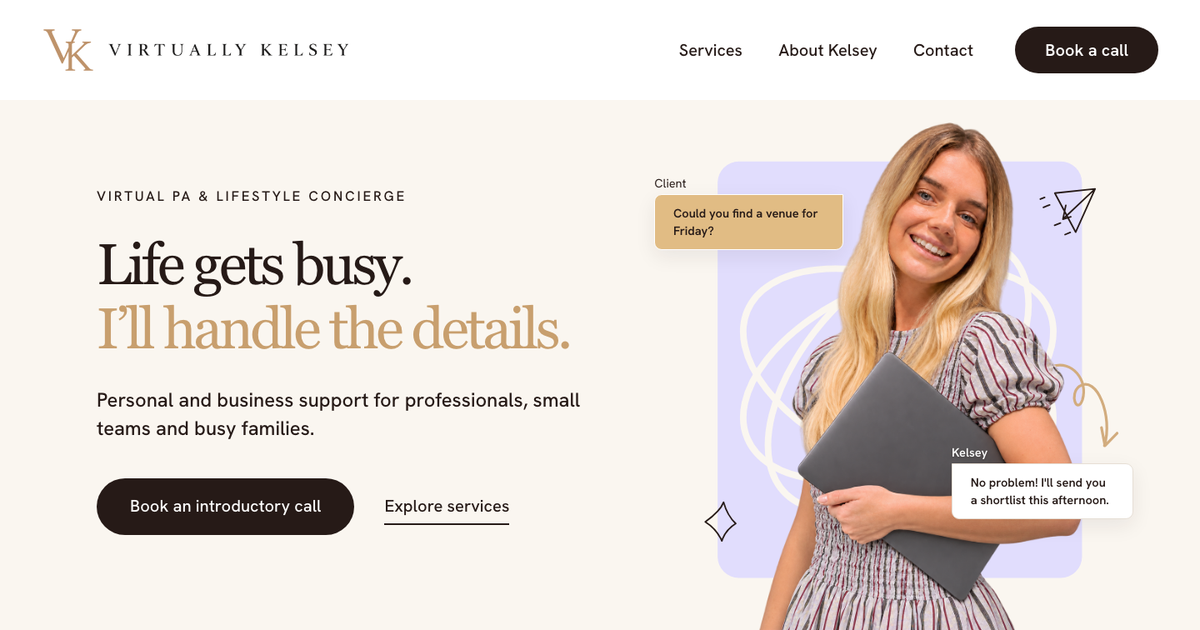
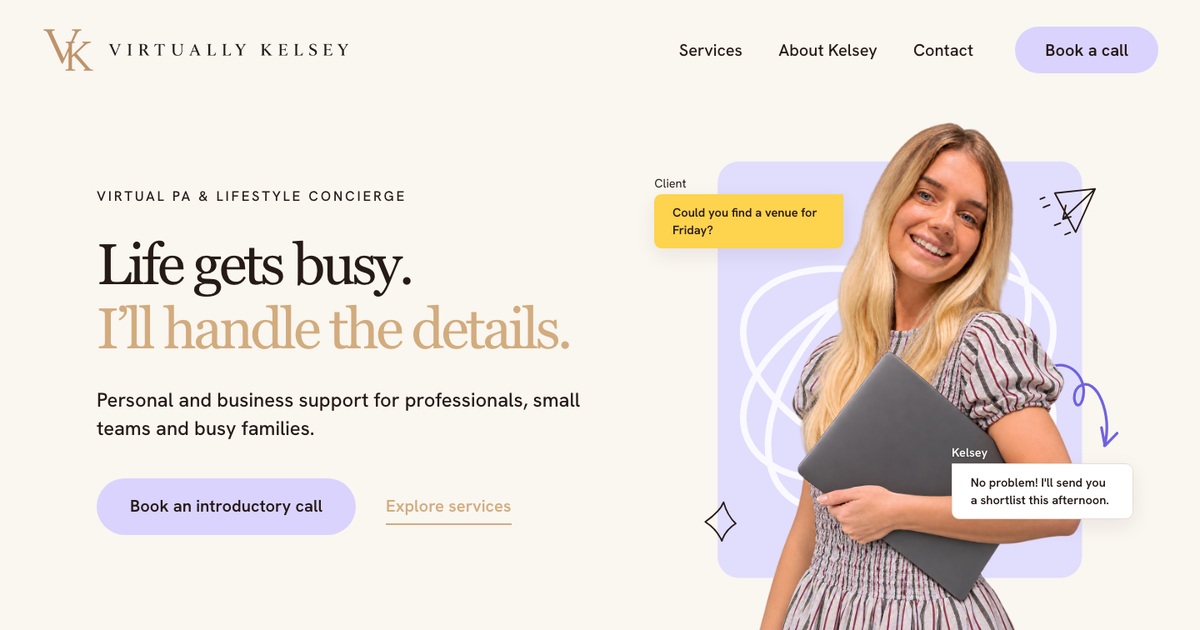
Match Hero & seamless ivory navbar to reference design

diff --git a/styles.css b/styles.css
@@ -15,8 +15,8 @@
   --gold-hover: #B88E5C;
   --lilac: #E1DDFD;
   --lilac-card: #DDDBFD;
-  --lilac-btn: #DBD8FD;
-  --lilac-hover: #CBC6FB;
+  --lilac-btn: #DAD3FD;
+  --lilac-hover: #C9C1FB;
   --lilac-accent: #CAC5F8;
   --lilac-border: #D2CDFA;
   --espresso: #261A17;
@@ -188,8 +188,7 @@ p a:not([class]):hover,
   height: 120px;
   position: relative;
   z-index: 10;
-  background-color: var(--white);
-  border-bottom: 1px solid var(--border);
+  background-color: transparent;
 }
 
 .navbar {
@@ -200,7 +199,7 @@ p a:not([class]):hover,
   width: 100%;
   height: 120px;
   padding: 0px 50px;
-  background-color: var(--white);
+  background-color: transparent;
   position: relative;
 }
 
@@ -320,7 +319,7 @@ p a:not([class]):hover,
   height: 46px;
   padding: 0px 28px;
   border-radius: 100px;
-  background-color: var(--espresso);
+  background-color: var(--lilac-btn);
   text-decoration: none;
   cursor: pointer;
   white-space: pre;
@@ -328,13 +327,13 @@ p a:not([class]):hover,
   font-size: 16px;
   font-weight: 600;
   line-height: 28px;
-  color: var(--white);
+  color: var(--espresso);
   flex-shrink: 0;
   transition: background-color 0.22s cubic-bezier(0.22, 1, 0.36, 1);
 }
 
 .navbar-cta:hover {
-  background-color: var(--espresso-hover);
+  background-color: var(--lilac-hover);
 }
 
 /* ==========================================================================
@@ -395,7 +394,7 @@ p a:not([class]):hover,
 }
 
 .hero-headline-accent {
-  color: var(--gold-link);
+  color: var(--gold);
 }
 
 .hero-eyebrow {
@@ -442,20 +441,20 @@ p a:not([class]):hover,
   height: 56px;
   padding: 0px 32px;
   border-radius: 100px;
-  background-color: var(--espresso);
+  background-color: var(--lilac-btn);
   text-decoration: none;
   cursor: pointer;
   white-space: pre;
   font-family: "Hanken Grotesk", sans-serif;
   font-size: 18px;
-  font-weight: 500;
+  font-weight: 600;
   line-height: 28.8px;
-  color: var(--white);
+  color: var(--espresso);
   transition: background-color 0.25s cubic-bezier(0.22, 1, 0.36, 1);
 }
 
 .btn-primary-big:hover {
-  background-color: var(--espresso-hover);
+  background-color: var(--lilac-hover);
 }
 
 /* Secondary CTA (.framer-1cjxwlc) */
@@ -467,42 +466,43 @@ p a:not([class]):hover,
   gap: 10px;
   height: 38px;
   padding: 0px;
-  border-bottom: 2px solid var(--espresso);
+  border-bottom: 2px solid var(--gold);
   text-decoration: none;
   cursor: pointer;
   font-family: "Hanken Grotesk", sans-serif;
   font-size: 18px;
   font-weight: 600;
   line-height: 28px;
-  color: var(--espresso);
+  color: var(--gold);
   transition: color 0.25s cubic-bezier(0.22, 1, 0.36, 1),
               border-bottom-color 0.25s cubic-bezier(0.22, 1, 0.36, 1);
 }
 
 .btn-secondary:hover {
-  color: var(--espresso-hover);
-  border-bottom-color: var(--espresso-hover);
+  color: var(--espresso);
+  border-bottom-color: var(--espresso);
 }
 
 .hero-buttons .btn-primary-big {
-  background-color: var(--espresso);
+  background-color: var(--lilac-btn);
   padding-inline: 32px;
-  font-weight: 500;
+  font-weight: 600;
+  color: var(--espresso);
 }
 
 .hero-buttons .btn-primary-big:hover {
-  background-color: var(--espresso-hover);
+  background-color: var(--lilac-hover);
 }
 
 .hero-buttons .btn-secondary {
-  color: var(--espresso);
-  border-bottom-color: var(--espresso);
-  font-weight: 500;
+  color: var(--gold);
+  border-bottom-color: var(--gold);
+  font-weight: 600;
 }
 
 .hero-buttons .btn-secondary:hover {
-  color: var(--espresso-hover);
-  border-bottom-color: var(--espresso-hover);
+  color: var(--espresso);
+  border-bottom-color: var(--espresso);
 }
 
 .hero-right {
@@ -603,9 +603,9 @@ p a:not([class]):hover,
 }
 
 .hero-message--client .hero-message-text {
-  background: var(--champagne-highlight);
+  background: #FED34D;
   color: var(--espresso);
-  border: 1px solid var(--white);
+  border: none;
   box-shadow: 0 8px 24px rgba(38, 26, 23, 0.08);
   border-top-right-radius: 0;
 }
@@ -2236,7 +2236,8 @@ p a:not([class]):hover,
 }
 
 .service-meta-cta {
-  background-color: var(--espresso);
+  background-color: var(--lilac-btn);
+  color: var(--espresso);
   height: 52px;
   padding-inline: 28px;
   font-size: 17px;
@@ -2245,7 +2246,7 @@ p a:not([class]):hover,
 }
 
 .service-meta-cta:hover {
-  background-color: var(--espresso-hover);
+  background-color: var(--lilac-hover);
 }
 
 /* Service Detail Body Section */
@@ -2421,12 +2422,13 @@ p a:not([class]):hover,
 }
 
 .handoff-cta-btn {
-  background-color: var(--espresso);
+  background-color: var(--lilac-btn);
+  color: var(--espresso);
   font-weight: 600;
 }
 
 .handoff-cta-btn:hover {
-  background-color: var(--espresso-hover);
+  background-color: var(--lilac-hover);
 }
 
 .handoff-cta-write {
@@ -3833,7 +3835,8 @@ p a:not([class]):hover,
 
 .contact-submit-btn {
   align-self: flex-start;
-  background-color: var(--espresso);
+  background-color: var(--lilac-btn);
+  color: var(--espresso);
   border: none;
   height: 52px;
   padding-inline: 28px;
@@ -3842,7 +3845,7 @@ p a:not([class]):hover,
 }
 
 .contact-submit-btn:hover {
-  background-color: var(--espresso-hover);
+  background-color: var(--lilac-hover);
 }
 
 .contact-form-status {
@@ -3892,7 +3895,8 @@ p a:not([class]):hover,
 }
 
 .prefer-talk-btn {
-  background-color: var(--espresso);
+  background-color: var(--lilac-btn);
+  color: var(--espresso);
   height: 48px;
   padding-inline: 26px;
   font-size: 16px;
@@ -3900,7 +3904,7 @@ p a:not([class]):hover,
 }
 
 .prefer-talk-btn:hover {
-  background-color: var(--espresso-hover);
+  background-color: var(--lilac-hover);
 }
 
 .prefer-talk-details {

diff --git a/index.html b/index.html
@@ -22,7 +22,7 @@
   <meta name="twitter:image" content="assets/images/og-image.png" />
   <link rel="preconnect" href="https://fonts.googleapis.com" />
   <link rel="preconnect" href="https://fonts.gstatic.com" crossorigin />
-  <link rel="stylesheet" href="styles.css?v=19" />
+  <link rel="stylesheet" href="styles.css?v=20" />
 </head>
 <body>
   <div id="main">
@@ -83,7 +83,7 @@
           <!-- Right Column: Hero Image -->
           <div class="hero-right framer-hrkhyn" data-framer-name="hero-image: woman smiling, holding a laptop">
             <div class="hero-artwork">
-              <img class="hero-backdrop" src="assets/images/hero-background.svg?v=2" alt="" width="2576" height="2680" draggable="false" />
+              <img class="hero-backdrop" src="assets/images/hero-background.svg?v=3" alt="" width="2576" height="2680" draggable="false" />
               <img class="hero-portrait" src="assets/images/kelsey-cutout.png" alt="Kelsey smiling in a striped top and holding a laptop" draggable="false" />
               <div class="hero-message hero-message--client">
                 <p class="hero-speaker">Client</p>

diff --git a/services/client-and-customer-care/index.html b/services/client-and-customer-care/index.html
@@ -22,7 +22,7 @@
   <meta name="twitter:image" content="https://virtuallykelsey.vercel.app/assets/images/og-image.png" />
   <link rel="preconnect" href="https://fonts.googleapis.com" />
   <link rel="preconnect" href="https://fonts.gstatic.com" crossorigin />
-  <link rel="stylesheet" href="../../styles.css?v=19" />
+  <link rel="stylesheet" href="../../styles.css?v=20" />
 </head>
 <body>
   <div id="main">

diff --git a/services/diary-and-appointments/index.html b/services/diary-and-appointments/index.html
@@ -22,7 +22,7 @@
   <meta name="twitter:image" content="https://virtuallykelsey.vercel.app/assets/images/og-image.png" />
   <link rel="preconnect" href="https://fonts.googleapis.com" />
   <link rel="preconnect" href="https://fonts.gstatic.com" crossorigin />
-  <link rel="stylesheet" href="../../styles.css?v=19" />
+  <link rel="stylesheet" href="../../styles.css?v=20" />
 </head>
 <body>
   <div id="main">

diff --git a/services/inbox-management/index.html b/services/inbox-management/index.html
@@ -22,7 +22,7 @@
   <meta name="twitter:image" content="https://virtuallykelsey.vercel.app/assets/images/og-image.png" />
   <link rel="preconnect" href="https://fonts.googleapis.com" />
   <link rel="preconnect" href="https://fonts.gstatic.com" crossorigin />
-  <link rel="stylesheet" href="../../styles.css?v=19" />
+  <link rel="stylesheet" href="../../styles.css?v=20" />
 </head>
 <body>
   <div id="main">

diff --git a/services/lifestyle-concierge/index.html b/services/lifestyle-concierge/index.html
@@ -22,7 +22,7 @@
   <meta name="twitter:image" content="https://virtuallykelsey.vercel.app/assets/images/og-image.png" />
   <link rel="preconnect" href="https://fonts.googleapis.com" />
   <link rel="preconnect" href="https://fonts.gstatic.com" crossorigin />
-  <link rel="stylesheet" href="../../styles.css?v=19" />
+  <link rel="stylesheet" href="../../styles.css?v=20" />
 </head>
 <body>
   <div id="main">

diff --git a/services/social-media-support/index.html b/services/social-media-support/index.html
@@ -22,7 +22,7 @@
   <meta name="twitter:image" content="https://virtuallykelsey.vercel.app/assets/images/og-image.png" />
   <link rel="preconnect" href="https://fonts.googleapis.com" />
   <link rel="preconnect" href="https://fonts.gstatic.com" crossorigin />
-  <link rel="stylesheet" href="../../styles.css?v=19" />
+  <link rel="stylesheet" href="../../styles.css?v=20" />
 </head>
 <body>
   <div id="main">

diff --git a/services/travel-and-events/index.html b/services/travel-and-events/index.html
@@ -22,7 +22,7 @@
   <meta name="twitter:image" content="https://virtuallykelsey.vercel.app/assets/images/og-image.png" />
   <link rel="preconnect" href="https://fonts.googleapis.com" />
   <link rel="preconnect" href="https://fonts.gstatic.com" crossorigin />
-  <link rel="stylesheet" href="../../styles.css?v=19" />
+  <link rel="stylesheet" href="../../styles.css?v=20" />
 </head>
 <body>
   <div id="main">

diff --git a/about/index.html b/about/index.html
@@ -22,7 +22,7 @@
   <meta name="twitter:image" content="https://virtuallykelsey.vercel.app/assets/images/og-image.png" />
   <link rel="preconnect" href="https://fonts.googleapis.com" />
   <link rel="preconnect" href="https://fonts.gstatic.com" crossorigin />
-  <link rel="stylesheet" href="../styles.css?v=19" />
+  <link rel="stylesheet" href="../styles.css?v=20" />
 </head>
 <body>
   <div id="main">

diff --git a/contact/index.html b/contact/index.html
@@ -22,7 +22,7 @@
   <meta name="twitter:image" content="https://virtuallykelsey.vercel.app/assets/images/og-image.png" />
   <link rel="preconnect" href="https://fonts.googleapis.com" />
   <link rel="preconnect" href="https://fonts.gstatic.com" crossorigin />
-  <link rel="stylesheet" href="../styles.css?v=19" />
+  <link rel="stylesheet" href="../styles.css?v=20" />
 </head>
 <body>
   <div id="main">

diff --git a/privacy-policy/index.html b/privacy-policy/index.html
@@ -14,7 +14,7 @@
   <link rel="manifest" href="../site.webmanifest" />
   <link rel="preconnect" href="https://fonts.googleapis.com" />
   <link rel="preconnect" href="https://fonts.gstatic.com" crossorigin />
-  <link rel="stylesheet" href="../styles.css?v=19" />
+  <link rel="stylesheet" href="../styles.css?v=20" />
 </head>
 <body>
   <div id="main">
